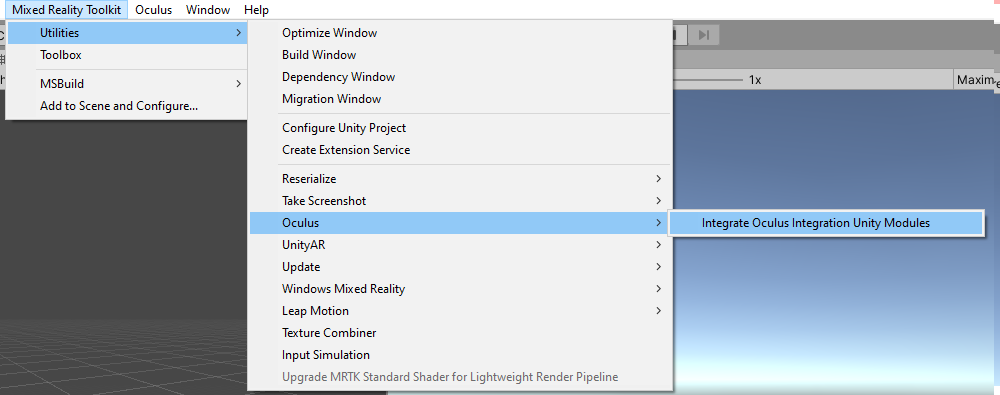
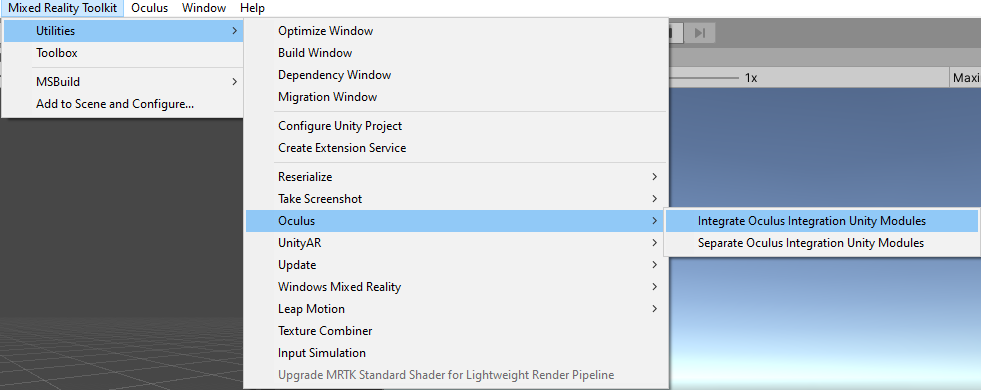
updated integration tool and documentation to explicitly allow for the separation of oculus components

diff --git a/Assets/MRTK/Providers/Oculus/XRSDK/MRTK-Quest/Editor/OculusXRSDKHandtrackingConfigurationChecker.cs b/Assets/MRTK/Providers/Oculus/XRSDK/MRTK-Quest/Editor/OculusXRSDKHandtrackingConfigurationChecker.cs
@@ -56,13 +56,67 @@ namespace Microsoft.MixedReality.Toolkit.XRSDK.Oculus.Editor
         private static readonly string[] Definitions = { "OCULUSINTEGRATION_PRESENT" };
 
         /// <summary>
-        /// Detects if the Oculus Integration package is present and updates the AsmDefs with the appropriate definitions and references.
+        /// Integrate MRTK and the Oculus Integration Unity Modules if the Oculus Integration Unity Modules is in the project. If is are not in the project, display a pop up window.
         /// </summary>
         [MenuItem("Mixed Reality Toolkit/Utilities/Oculus/Integrate Oculus Integration Unity Modules")]
-        internal static void ConfigureOculusIntegration()
+        internal static void IntegrateOculusWithMRTK()
         {
-            bool OculusIntegrationPresent = ReconcileOculusIntegrationDefine();
+            // Check if Oculus Integration package is present
+            bool OculusIntegrationPresent = DetectOculusIntegrationDefine();
 
+            if (!OculusIntegrationPresent)
+            {
+                EditorUtility.DisplayDialog(
+                    "Oculus Integration Package Not Detected",
+                    "The Oculus Integration Package could not be found in this project, please import the assets into this project. The assets can be found here: " +
+                        "https://assetstore.unity.com/packages/tools/integration/oculus-integration-82022",
+                    "OK");
+            }
+
+            // Update the ScriptingDefinitions depending on the presence of the Oculus Integration Unity Modules
+            ReconcileOculusIntegrationDefine();
+
+            // Configure the rest of the asmdefs
+            ConfigureOculusIntegration(OculusIntegrationPresent);
+        }
+
+        /// <summary>
+        /// Separate MRTK and the Oculus Integration Unity Modules and display a prompt for the user to close unity and delete the assets.
+        /// </summary>
+        [MenuItem("Mixed Reality Toolkit/Utilities/Oculus/Separate Oculus Integration Unity Modules")]
+        internal static void SeparateOculusFromMRTK()
+        {
+            bool OculusIntegrationPresent = DetectOculusIntegrationDefine();
+
+            // If the user tries to separate the Leap Assets without assets in the project display a message
+            if (!OculusIntegrationPresent)
+            {EditorUtility.DisplayDialog(
+                    "MRTK Leap Motion Removal",
+                    "There are no Leap Motion Unity Modules in the project to separate from MRTK",
+                    "OK");
+
+                return;
+            }
+
+            // Force removal of the ScriptingDefinitions while the Oculus Integration is still in the project
+            ScriptUtilities.RemoveScriptingDefinitions(BuildTargetGroup.Android, Definitions);
+            ScriptUtilities.RemoveScriptingDefinitions(BuildTargetGroup.Standalone, Definitions);
+
+            // Remove the references to the Oculus Integration assembly definitions
+            ConfigureOculusIntegration(false);
+
+            // Prompt the user to close unity and delete the assets to completely remove.  Closing unity and deleting the assets is optional.
+            EditorUtility.DisplayDialog(
+                "MRTK Oculus Integration Removal",
+                "To complete the removal of the Oculus Integration Unity Modules, close Unity, delete the assets and Library folders, and reopen Unity",
+                "OK");
+        }
+
+        /// <summary>
+        /// Detects if the Oculus Integration package is present and updates the AsmDefs with the appropriate definitions and references.
+        /// </summary>
+        internal static void ConfigureOculusIntegration(bool OculusIntegrationPresent)
+        {
             // Update the CSC to filter out warnings emitted by the Oculus Integration Package
             if(OculusIntegrationPresent)
             {
@@ -155,24 +209,40 @@ namespace Microsoft.MixedReality.Toolkit.XRSDK.Oculus.Editor
         }
 
         /// <summary>
-        /// Updates the assembly definitions to mark the Oculus Integration Asset as present or not present
+        /// Checks if the Oculus Integration Asset as present or not present
         /// </summary>
         /// <returns>true if Assets/Oculus/OculusProjectConfig exists, false otherwise</returns>
-        internal static bool ReconcileOculusIntegrationDefine()
+        internal static bool DetectOculusIntegrationDefine()
         {
             FileInfo[] files = FileUtilities.FindFilesInAssets(OculusIntegrationProjectConfig);
 
             if (files.Length > 0)
             {
+                return true;
+            }
+            else
+            {
+                return false;
+            }
+        }
+
+        /// <summary>
+        /// Updates the assembly definitions to mark the Oculus Integration Asset as present or not present
+        /// </summary>
+        /// <returns>true if Assets/Oculus/OculusProjectConfig exists, false otherwise</returns>
+        internal static void ReconcileOculusIntegrationDefine()
+        {
+            bool isOculusPresent = DetectOculusIntegrationDefine();
+
+            if (isOculusPresent)
+            {
                 ScriptUtilities.AppendScriptingDefinitions(BuildTargetGroup.Android, Definitions);
                 ScriptUtilities.AppendScriptingDefinitions(BuildTargetGroup.Standalone, Definitions);
-                return true;
             }
             else
             {
                 ScriptUtilities.RemoveScriptingDefinitions(BuildTargetGroup.Android, Definitions);
                 ScriptUtilities.RemoveScriptingDefinitions(BuildTargetGroup.Standalone, Definitions);
-                return false;
             }
         }
 

diff --git a/Assets/MRTK/Tests/EditModeTests/Editor/OculusIntegrationSetupTests.cs b/Assets/MRTK/Tests/EditModeTests/Editor/OculusIntegrationSetupTests.cs
@@ -41,18 +41,19 @@ namespace Microsoft.MixedReality.Toolkit.Tests.EditModeTests.Editor
         public IEnumerator TestOculusIntegrationSetup()
         {
             // Configure the oculus settings successfully
-            OculusXRSDKHandtrackingConfigurationChecker.ConfigureOculusIntegration();
+            OculusXRSDKHandtrackingConfigurationChecker.IntegrateOculusWithMRTK();
 
             // Check that the definitions and amdefs are set up correctly when Oculus Integration is present
-            Assert.IsTrue(OculusXRSDKHandtrackingConfigurationChecker.ReconcileOculusIntegrationDefine());
+            Assert.IsTrue(OculusXRSDKHandtrackingConfigurationChecker.DetectOculusIntegrationDefine());
             ValidateAsmdefs(true);
 
             // Remove the dummy asset and clean up the project to prevent errors
             TearDown();
-            OculusXRSDKHandtrackingConfigurationChecker.ConfigureOculusIntegration();
+            OculusXRSDKHandtrackingConfigurationChecker.ReconcileOculusIntegrationDefine();
+            OculusXRSDKHandtrackingConfigurationChecker.ConfigureOculusIntegration(false);
 
             // Check that the definitions and amdefs are set up correctly when Oculus Integration is not present
-            Assert.IsFalse(OculusXRSDKHandtrackingConfigurationChecker.ReconcileOculusIntegrationDefine());
+            Assert.IsFalse(OculusXRSDKHandtrackingConfigurationChecker.DetectOculusIntegrationDefine());
             ValidateAsmdefs(false);
 
             yield return null;

diff --git a/Documentation/CrossPlatform/OculusQuestMRTK.md b/Documentation/CrossPlatform/OculusQuestMRTK.md
@@ -87,6 +87,18 @@ to "Controllers and Hands".
 1. Accept the _Allow USB Debugging_ prompt from inside the quest
 1. See your scene inside the Oculus Quest
 
+##Removing Oculus from the Project
+
+1. Navigate to the Mixed Reality Toolkit > Leap Motion > Separate Leap Motion Unity Modules
+    ![OculusSeparationAsmdef](../Images/CrossPlatform/OculusQuest/OculusSeparationAsmdef.png)
+1. Let Unity refresh as references in the Microsoft.MixedReality.Toolkit.Providers.LeapMotion.asmdef file are modified in this step
+1. Close Unity
+1. Close Visual Studio, if it's open
+1. Open File Explorer and navigate to the root of the MRTK Unity project
+1. Delete the UnityProjectName/Library directory
+1. Delete the UnityProjectName/Assets/Oculus directory
+1. Delete the UnityProjectName/Assets/Oculus.meta file
+1. Reopen Unity
 
 ## Common errors
 
